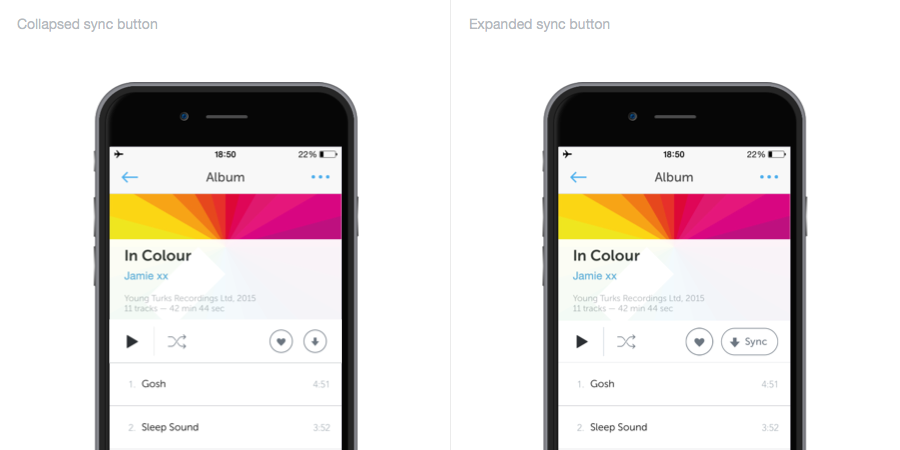
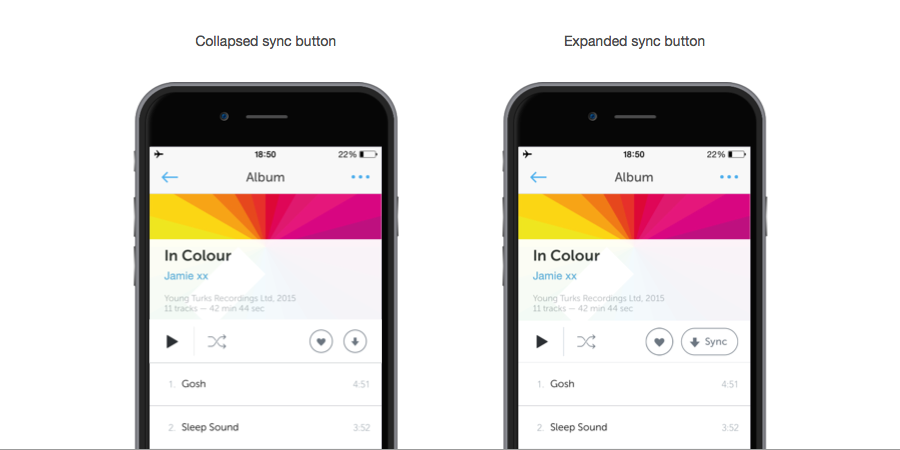
up

diff --git a/landings/index.html b/landings/index.html
@@ -82,18 +82,18 @@
     <div class="container"> 
 			<section class="copy-section">
 				
-				<p>Once I have introduced a workflow that invited non-designers into making. It reduced stress, accelerated development and improved overall awareness of the process and the product.</p>
+				<p>Once I introduced a workflow that invited non-designers into making of marketing pages. The workflow reduced stress, accelerated development and increased owners' awareness of the process and the product.</p>
 				<hr>
 				
-				<p>At Zvooq we had difficulties running marketing campaigns on time. As we were trying a new idea or partnership, there was a complex process which combined business, marketing, development, design and writer efforts to create a flow towards desired user action. These projects were usually bottlenecked by a lack of designer and developer power required to create all deliverables in time. Changing every line of text sometimes required long redesign. And we could not afford new hires to put more workforce into the process.</p>
+				<p>At Zvooq we wanted to speed up making of marketing projects. Campaigns had different owners, and they were repeatedly trying to create a custom design every time. Which alone could be a good thing, but not in this case. Delivery was often bottlenecked by a lack of designer and developer power.</p>
 
-				<p>I tried to rethink the existing process. What if there could have been a choice between a full-blown custom design and a quicker template-based solution? What if we could hand off some early stage prorotyping to owners and engage managers and owners in the transparent design process?</p>
+				<p>I tried to rethink the process so that it would make everyone aware of the cost. There must have been a choice between custom design and a quicker template-based solution. What if we could hand off some early stage prorotyping to owners and engage them in a transparent design process?</p>
 
 				<h3>Component system</h3>
 
-				<p>Many marketing pages and userflows are similar in terms of structure and logic. They are normally scanned top to bottom. There's a proposition, and there's a primary action. Texts and images are trying to touch user's mind and convince the user to do the action.</p>
-				<p>I broke the landing page into blocks: title proposition, product description, action blocks, headers and footers. Some parts were more abstract: text block or titled text block, or image header.</p>
-				<p>Developers have started building the unified components. Texts, backgrounds, and some design options were changeable externally through variables.</p>
+				<p>Many marketing pages and userflows are similar in terms of structure and logic. They are scanned top to bottom. There's a proposition, and there's a primary action. Texts and images are there to convince the user into the action.</p>
+				<p>I broke the landing page into blocks: title proposition, product description, action blocks, headers and footers. Some parts were abstract: text block or titled text block, or image header.</p>
+				<p>We started building the unified components. Texts, backgrounds, and some design options were changeable externally through variables.</p>
 
 			</section>
 			
@@ -103,14 +103,15 @@
 			
 				<h3>Designing together</h3>
 
-				<p>There was a document containing wireframe prototoypes of all available blocks. Everyone involved in the process could print out the PDF, cut out blocks and play. We sat down together, compiled and approved the core of the flow and corresponging messages. If we did not have a proper action or design in the library, we asked developers to add a new component.</p> 
+				<p>A document in marketing Wiki contained wireframe prototoypes of all available blocks. Everyone involved in the process could print out the PDF, cut out blocks and play the bricks game. We sat down together, compiled and approved the core of the flow and corresponging messages. If we did not have a necessary design in the library, we designed on the fly and asked developers to add a new component.</p> 
 				</section>
 			
 				 <img class="img-responsive" src="/images/portfolio_landings_papers.png">
 			
 				<section class="copy-section">
 
-				<p>After the flow has been agreed with marketing stakeholders, the page was skinned with images and text, reapproved again and was ready to go live. We could switch from the waterfall (concept - design - development) to a more streamlined parallel process, shorten the production cycle and make tweaks easier.
+				<p>After the flow has been agreed with marketing stakeholders, the page was skinned with images and text, approved again and was ready to go live.</p>
+				<p>As a result, everyone involved got a deeper understanding of the process. We switched from the waterfall (concept &rarr; design &rarr; development) to a parallel process. Shortened the production cycle. Live tweaks became much easier. 
 					
 				<p>Here are some activation and upsell flows built using this approach.</p>
 				

diff --git a/zvooqmobile/index.html b/zvooqmobile/index.html
@@ -120,32 +120,44 @@
 						
 				<p>We looked at the data on our existing users. Surprisingly, many of them were not active on any social network. Even if they had an account, they did not have friends. These users would see an empty social feed. Fail.</p>
 				
-				<p>Unlike that, a featured content feed would work for all users on the first contact. I suggested using hybrid technology (HTML+native) to get flexibility for the future until we find the right patterns. The grid could easily fit different types of objects: albums and playlists, nested lists in child view, special offers, and partnership promotions.</p>
+				<p>Unlike that, a featured content feed would work for all users on the first contact. I suggested using hybrid technology (HTML+native) to get flexibility for the future until we find the right patterns.</p>
 				
 				</section>
 				<img class="img-responsive" src="/images/zvooqmobile_featured.png">
 				<section class="copy-section">
 				
-				<p>With this design we could immediately show variety and accessibility of music. Even without personalization it was a good starting point.</p>
+				<p>This kind of grid could easily fit different types of music and non-music objects: albums and playlists, nested folders/lists, special offers, partnership promotions, and advertising.</p>
+								
+				</section>
+				<img class="img-responsive" src="/images/zvooqmobile_featured_2.png">
+				<section class="copy-section">
 				
-				<hr>
+				<p>With this design we could immediately show variety and accessibility of music. Even without personalization it was a solid starting point.</p>
+				
 
 				<h3>Helping syncing</h3>
 
+
+				<p>The data showed that if a user has synced music on the first session, he or she are likely to open the app again. There would be something to return to, and we wanted to increase the number of returning users. Even if users arrived to the album screen through features or search, they sometimes did not understand how to download music.</p> 
+				
 				</section>
 				
 					<img class="img-responsive" src="/images/zvooqmobile_sync_zoom.png">
 				
 				<section class="copy-section">
 				
-				<p>The data showed that if a user has synced music on the first session, he or she will probably open the app again. There would be something to return to, and we wanted to increase the number of returning users. Even if users arrived to the album screen through features or search, they sometimes did not understand how to download music.</p> 
 				<p>I have slightly changed the hierarchy of buttons on the toolbar, added the text label to the sync button. Syncing became obvious. After a few successful downloads, the button was supposed to shrink back to a collapsed state, freeing up space.</p> 
 					
+					</br>
+					
+					<p>I can provide some additional details of this project by request. <a href="mailto:heyblackbox@gmail.com">Let me know</a>.</p>
 					<hr>
 					
-					<p>I can provide additional details of this project by request. <a href="mailto:heyblackbox@gmail.com">Let me know</a>.</p>
-						<br/>
-						
+				<h3>Personal review</h3>
+				
+				<p>I was working on this app for two years since 2013 until 2015. During this time the product transitioned into scaling and monetization stage, and the company tripled in size. As a designer, I learned how to protect user experience and maintain a balance between product and business goals. It was a reality check which improved my communication skills and broadened my scope.</p>
+				<p>I learned how to manage the experience and features across platforms. We were developing the app for iOS and Android. Usage patterns, habits and expectations of Android users are not exactly the same as those of iOS users. For example, Apple ecosystem educated users to paid apps and subscriptions, while Android users are not so much prepared to pay for software and content. Sometimes it's reasonable to have a different set of features or different priorities between platforms to get better results and relevant UX.</p>
+			</br>
 				
 				<!--
 				<h3>Phone number authentication</h3>
@@ -170,7 +182,7 @@
 			<div class="container">
 				<section class="copy-section">
 			<h3>Get Zvooq app: <a href="https://itunes.apple.com/ru/app/id833449999" target="_blank">iOS</a>&nbsp;&middot;&nbsp;<a href="https://play.google.com/store/apps/details?id=com.zvooq.openplay">Android</a> </h3>
-			<p>Note: due to music rightsholders licenses, Zvooq app is currently available only in Russia and some countries of former CIS.</p>
+			<p class="small">Note: due to music rightsholders licenses, Zvooq app is currently available only in Russia and some countries of former CIS.</p>
 			</section>
 			</div>
     </div>

diff --git a/zvooqweb/index.html b/zvooqweb/index.html
@@ -68,7 +68,7 @@
     <div class="container-fluid accented_back text-center">
       <div class="container">  
         <h1>Zvooq web platform</h1>
-        <p class="lead">Zvooq is now one of the leading licensed music services in Russia.</br>It was launched on web in 2011.</p>
+        <p class="lead">Zvooq is now of the leading licensed music services in Russia.</br>First launched on web.</p>
 				<hr>
         <img class="img-responsive center-block" src="/images/zvooq_frames.png" alt="Zvooq Web App"></br>
       </div>
@@ -124,11 +124,11 @@
 						
 				<h3>Personal review</h3>						
 												
-				<p>I think we managed to build a great product that people have loved to use. Zvooq received good reviews and hype quickly brought us few millions of users. But sustaining the product and moving in further to monetization did not go so well.
+				<p>I think we managed to build a great product that people have loved to use. Zvooq received good reviews and hype brought us few millions of users. But sustaining the product and moving in further to monetization did not go so well.
 										
-				<p>Surviving a startup in the field of digital music is not easy. From a user perspective, a legal music service in Russia has to win over  free pirated music alternatives. The situation with piracy is changing slowly, but the majority of listening still happens on VK social network, which is not legalizing its content. From a business side, the rightsholders do not want to give music without getting payments in advance. These payments are big money for startups, and they are the resources that could otherwise be used to improve the product. Big companies can bear with it and invest in long-term user development. For smaller startups this situation leaves a very tight frame to develop and improve the product, educate users and start showing profitability.
+				<p>Surviving a startup in the field of digital music is not easy. From a user perspective, a legal music service in Russia has to win over  free pirated music alternatives. The situation with piracy is changing, but a larger part of plays still happens on VK social network, which is not legalizing its content. From a business side, the rightsholders do not want to give music without getting payments in advance. These payments are big money for startups, and they are the resources that could otherwise be used to improve the product. Big companies can bear with it and invest in long-term user development. For startups this situation leaves a tight frame to develop the product, educate users, and start showing profitability.
 				</p>						
-				<p>After launching on web, we released <a href="/fonoteka">Fonoteka</a>, a mobile app which supported the same ideology of personal relationship with music. In two years, the whole service pivoted its concept from creating a culture around music towards mainstream entertainment and background listening, backed by a freemium ad-supported monetization model. The next mobile product, a full-featured <a href="/zvooqmobile">Zvooq mobile app</a>, was made with a new proposition in mind.</p>
+				<p>After launching on web, we released <a href="/fonoteka">Fonoteka</a>, a mobile app which supported the same ideology of personal relationship with music. In two years, the whole service pivoted from creating a culture around music towards mainstream entertainment and background listening, backed by a freemium ad-supported monetization model. The next mobile product, a full-featured <a href="/zvooqmobile">Zvooq mobile app</a>, was made with a new proposition in mind.</p>
 			</section>
 			
 			<!--
